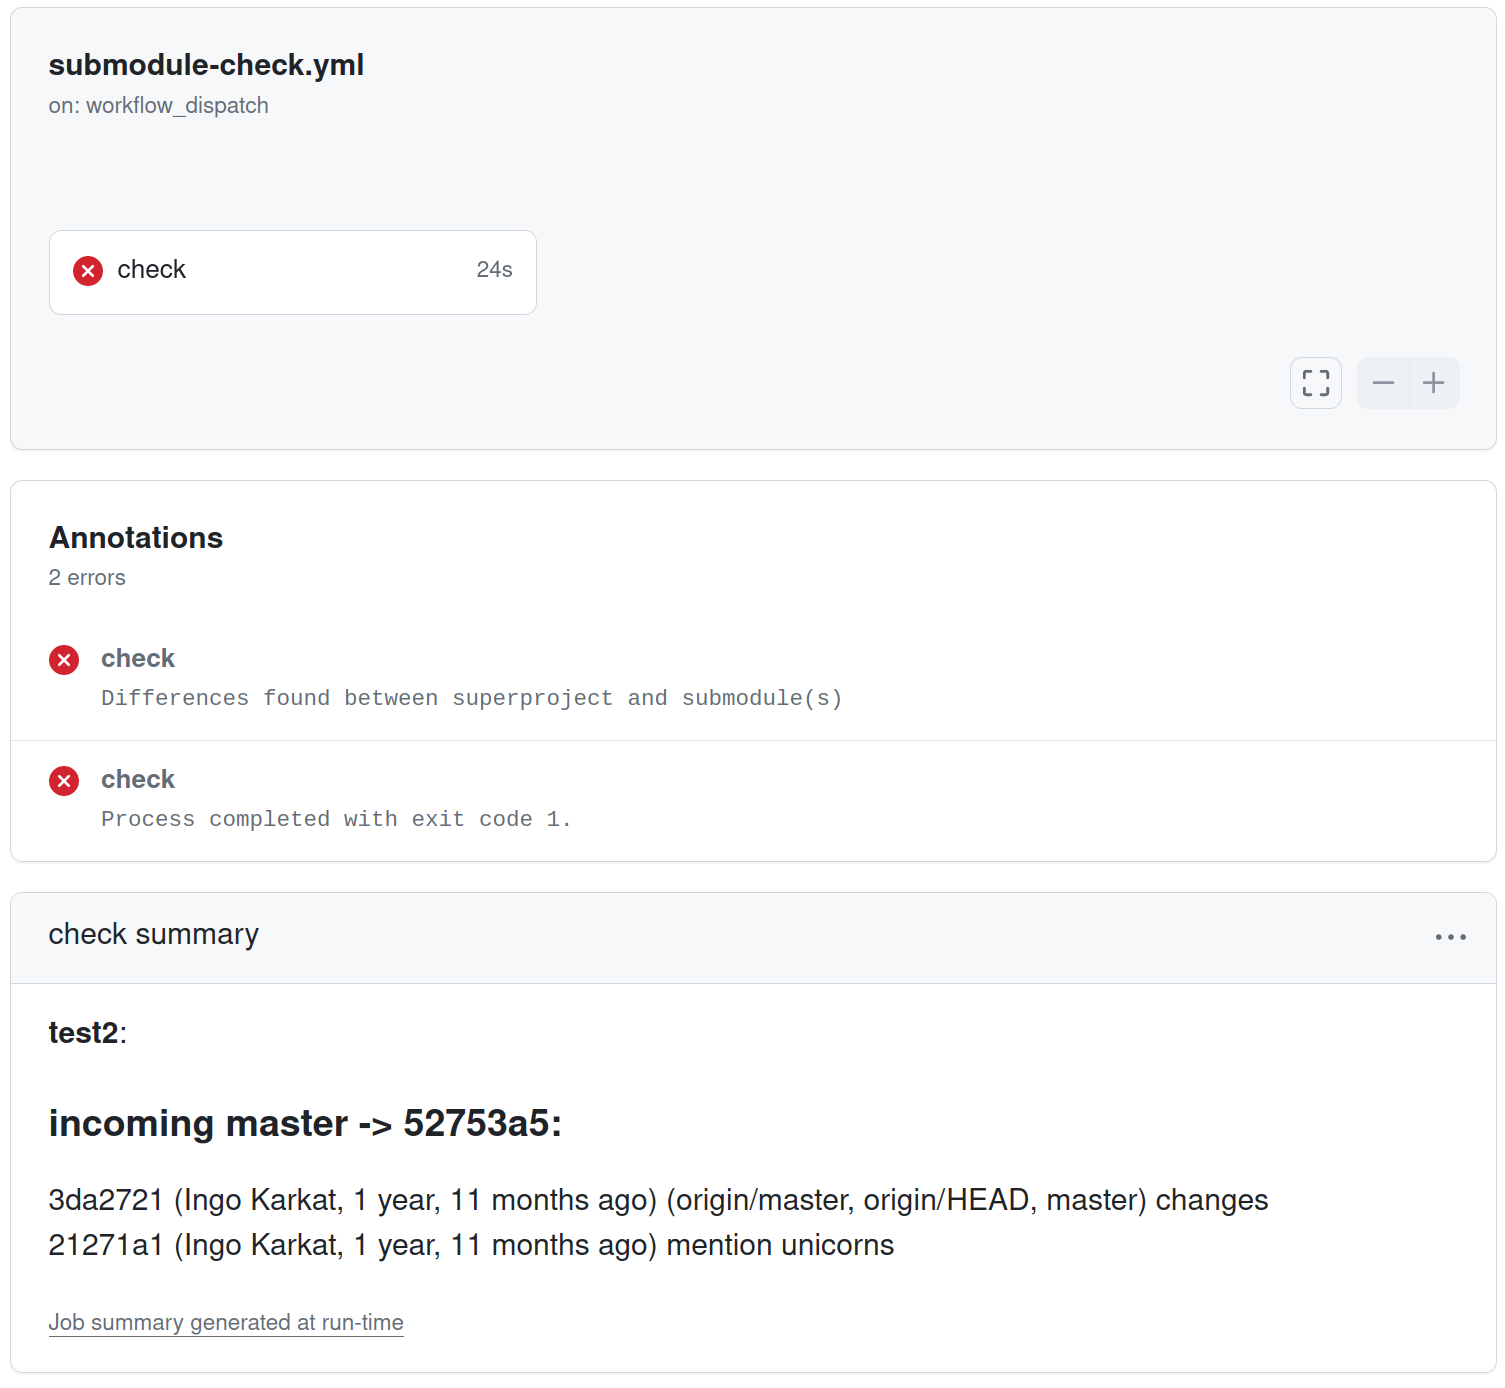
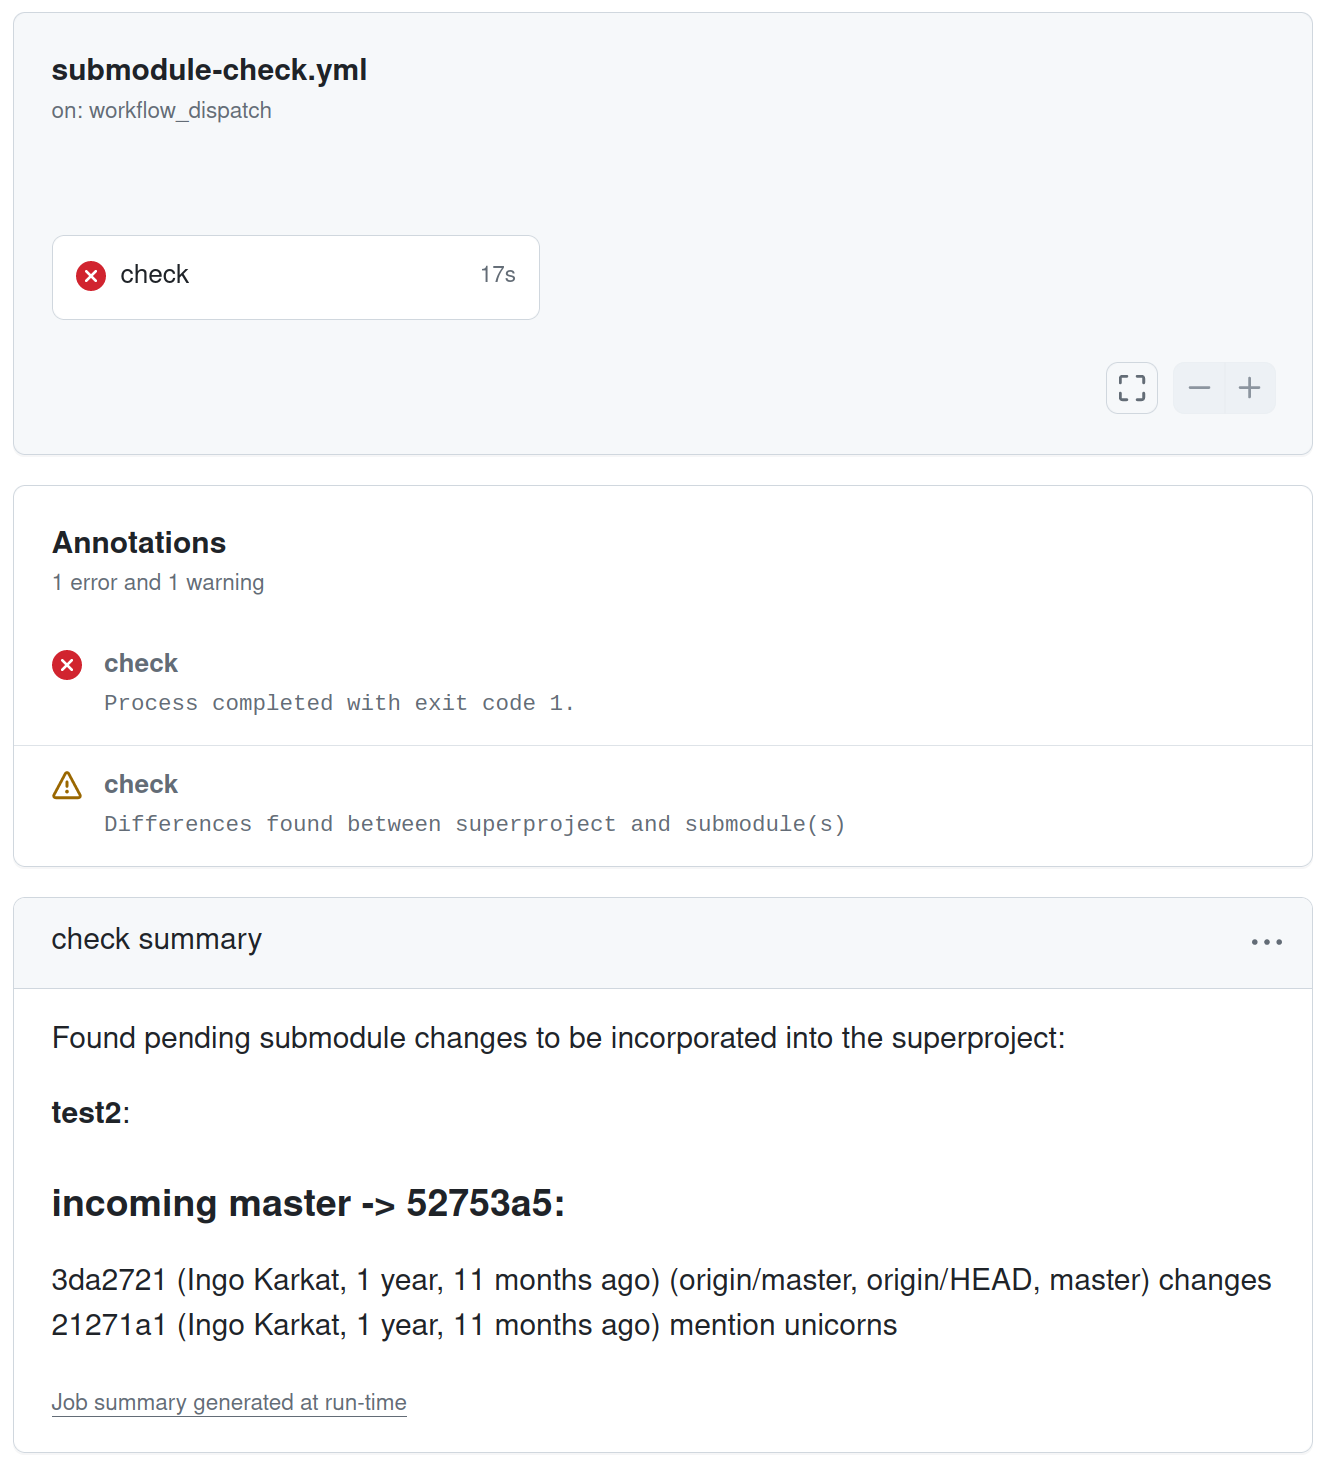
Removed: fail-on-differences flag
Making the Job summary step dependent on the step's failure is wrong; we don't want the job summary if the step failed due to infrastructure problems. Rather, use the step's flag:
> if: fromJSON(steps.supersubinout.outputs.differences-found)
Combining that with the necessary failure() check (otherwise the step won't run as it defaults to success()) is cumbersome, too.
So fail-on-differences is a shortcut for the unlikely use case of just wanting a fail without any Job summary or other logging of the result, and I think it's not too much to ask to then add a minimal second step then:
,----[ step emulation of fail-on-differences ]----
| - name: Fail on differences
|   if: fromJSON(steps.supersubinout.outputs.differences-found)
|   run: exit 1
|   shell: bash
`----

diff --git a/README.md b/README.md
@@ -20,17 +20,13 @@ The action determines whether there are incoming or outgoing commit discrepancie
     fetch-depth: 0  # Need the full history for the submodule comparison
 - uses: inkarkat/git-supersubinout@master
   id: supersubinout
-  with:
-    fail-on-differences: true # If you want to fail the build (vs. just checking whether there are differences)
-- name: Proceed without differences # If you just want to react on the result without failing the build.
-  if: steps.supersubinout.outputs.differences-found == 'false'
-  run: echo '::notice::The build could proceed here.'
-- name: Check summary # Provide a job summary with the differences
-  if: failure()
+- name: Check summary # Provide a job summary with the differences (if any)
+  if: fromJSON(steps.supersubinout.outputs.differences-found) # Interpret string output as boolean
   run: |
     cat >> "$GITHUB_STEP_SUMMARY" <<'EOF'
     ${{ steps.supersubinout.outputs.markdown-logs }}
     EOF
+    exit 1 # If you want to fail the build (vs. just checking whether there are differences)
   shell: bash
 ```
 # Example
